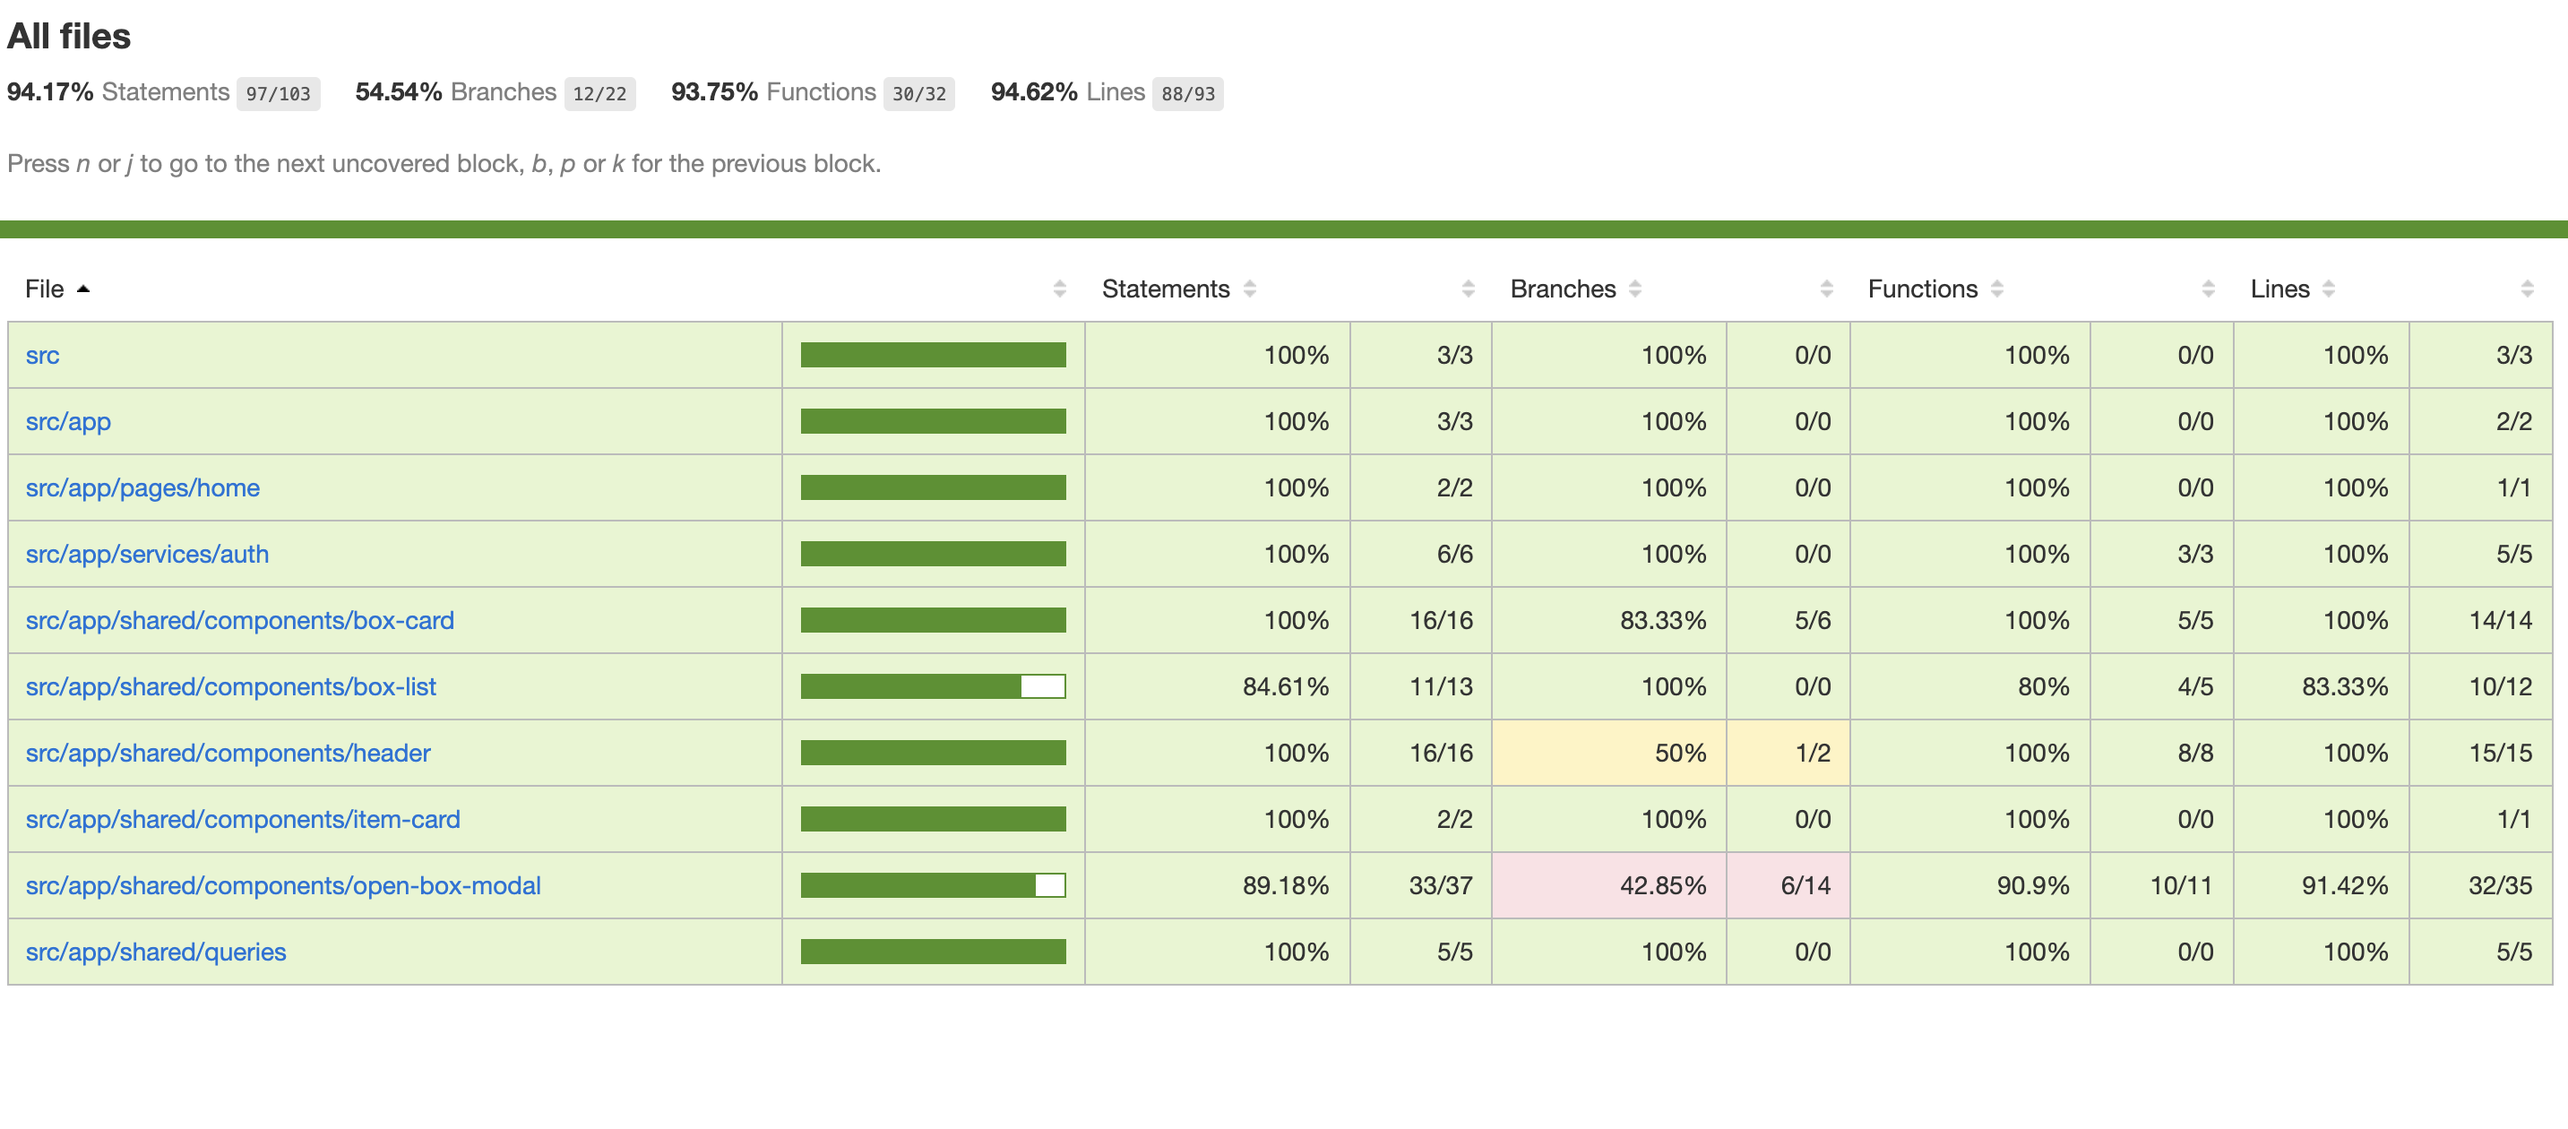
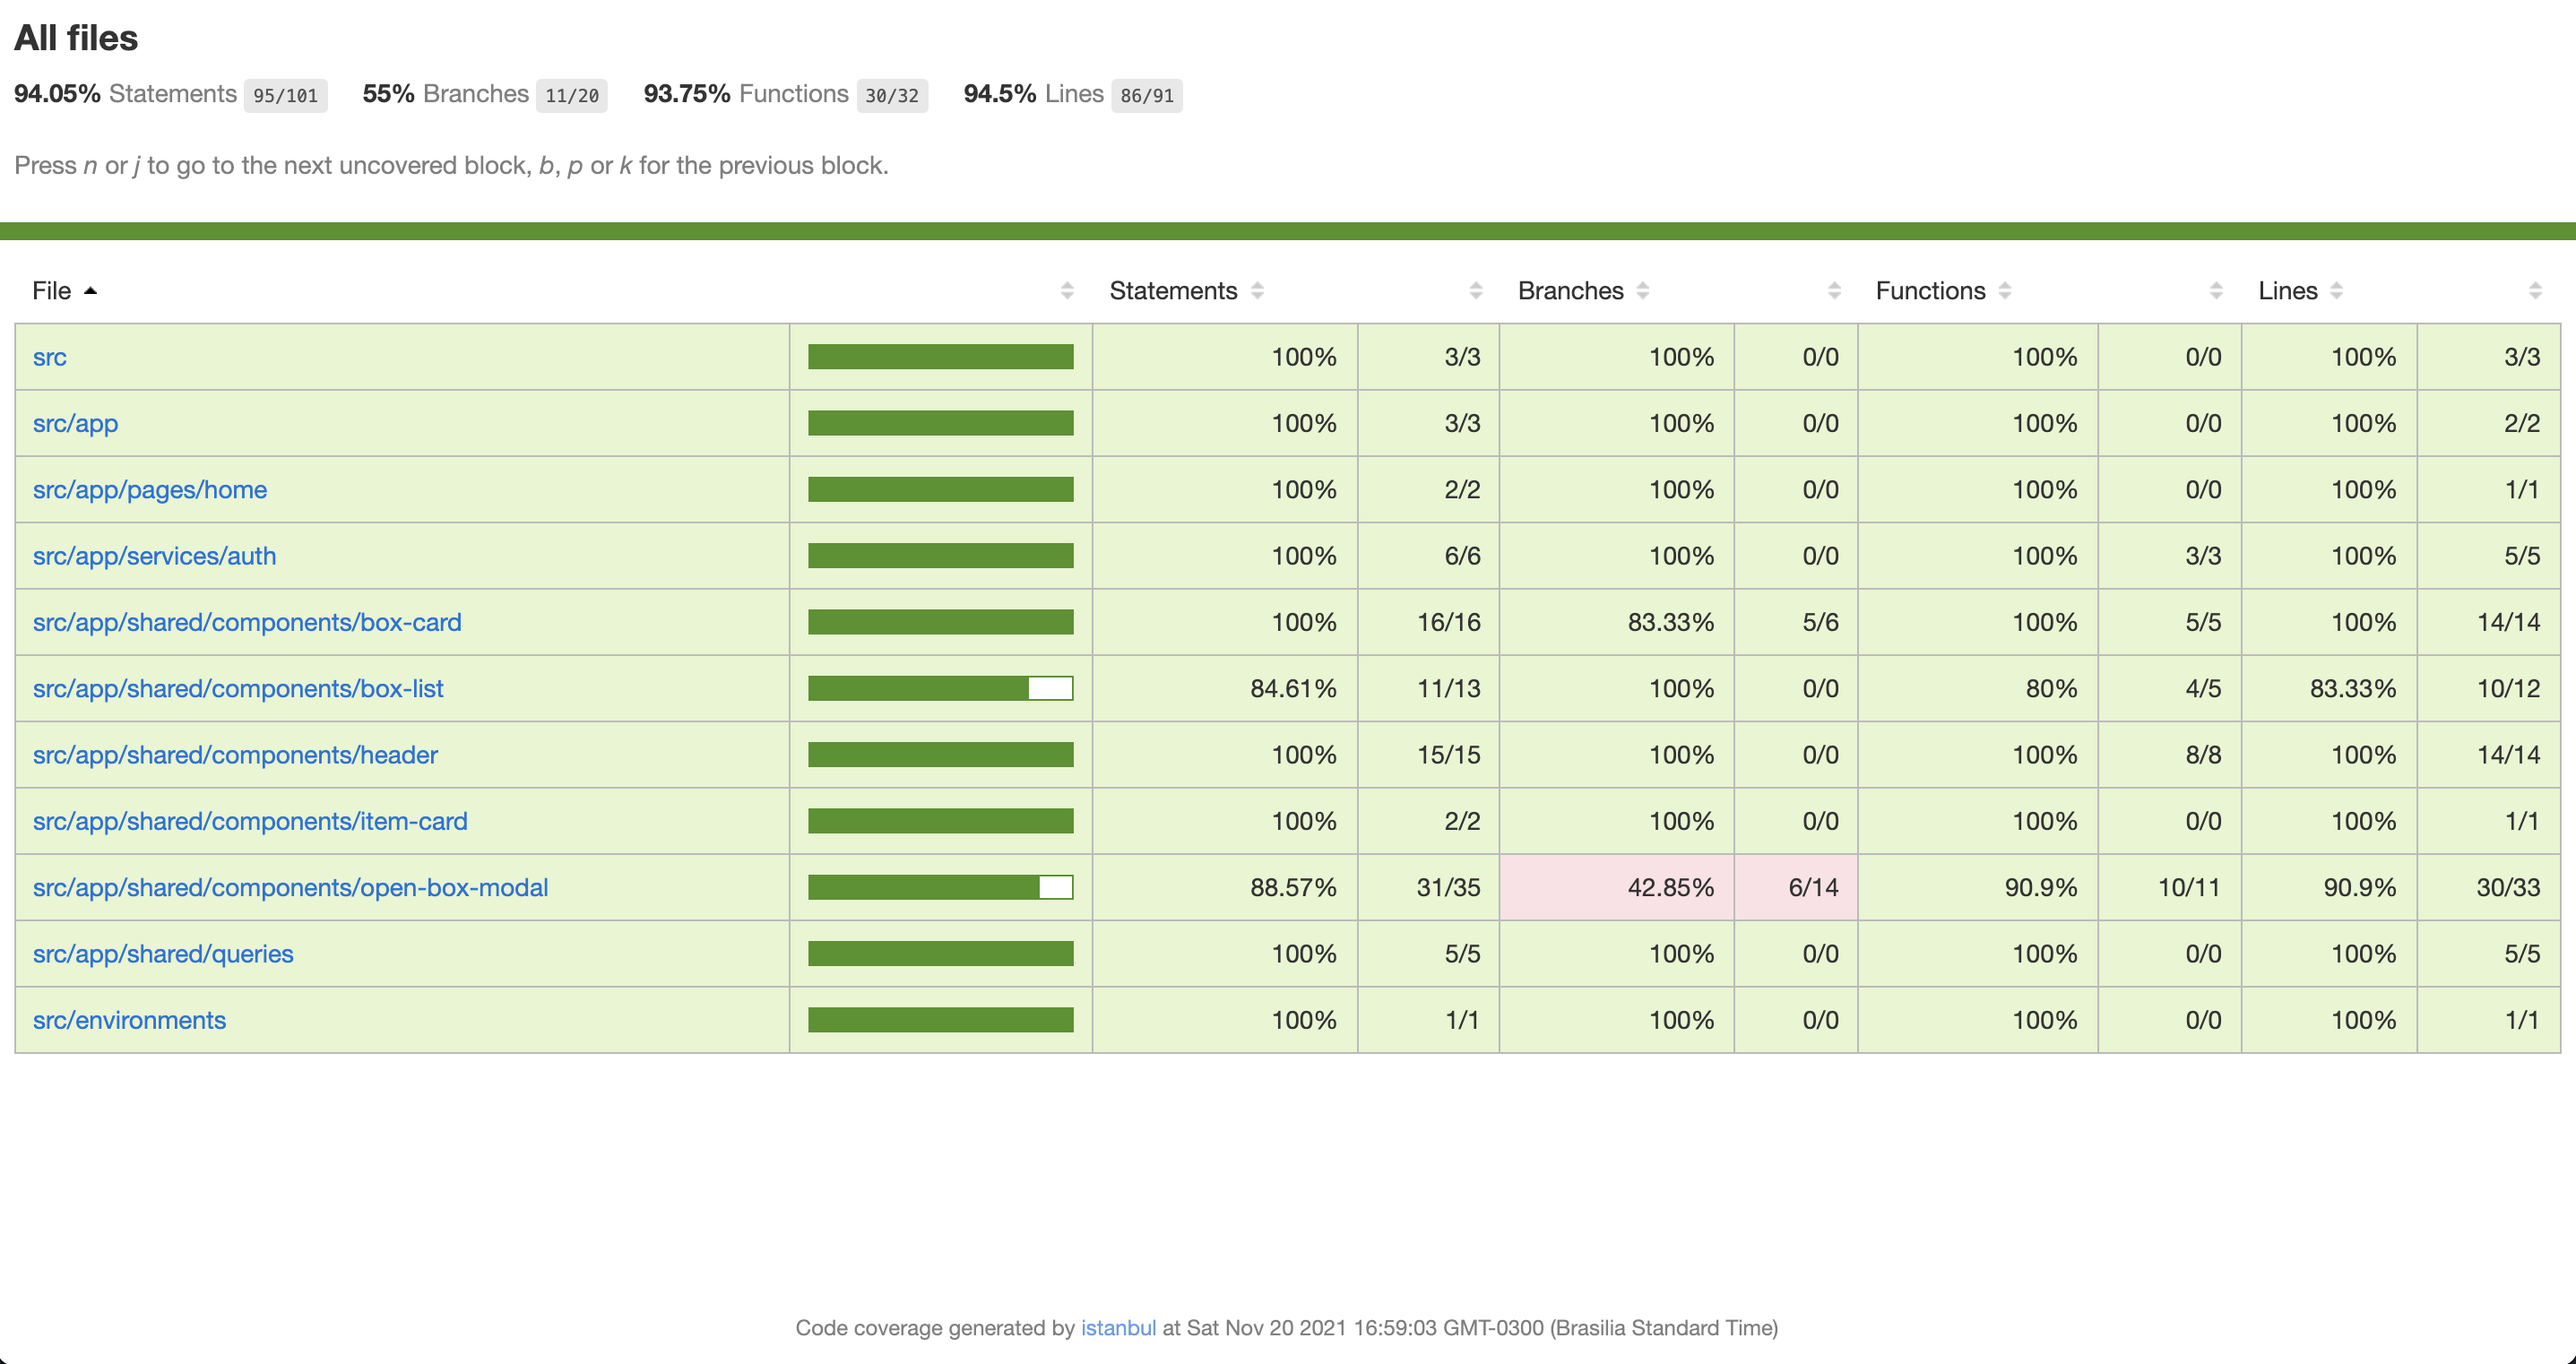
wallet fix and unit test fix

Changed region(s): [[0.0, 0.0, 1.0, 0.8976], [0.3105, 0.9595, 0.6832, 0.9905], [0.9937, 0.9905, 1.0, 1.0]]

diff --git a/src/app/shared/components/header/header.component.spec.ts b/src/app/shared/components/header/header.component.spec.ts
@@ -81,20 +81,7 @@ describe('HeaderComponent', () => {
       }
     });
 
-    const walletOp = controller.expectOne('OnUpdateWallet');
-
-    walletOp.flush({
-      data: {
-        updateWallet: {
-          wallet: {
-            id: 'mockid',
-            amount: 150,
-            name: 'mockname',
-          }
-        }
-      }
-    });
-
+    controller.verify();
   });
 
   it('should redirectToLogin', () => {
@@ -120,20 +107,6 @@ describe('HeaderComponent', () => {
       }
     });
 
-    const walletOp = controller.expectOne('OnUpdateWallet');
-
-    walletOp.flush({
-      data: {
-        updateWallet: {
-          wallet: {
-            id: 'mockid',
-            amount: 150,
-            name: 'mockname',
-          }
-        }
-      }
-    });
-
     expect(spyOnLogin).toHaveBeenCalled();
   });
 
@@ -155,21 +128,6 @@ describe('HeaderComponent', () => {
               id: 'mockwallet'
             }
           ],
-        }
-      }
-    });
-
-
-    const walletOp = controller.expectOne('OnUpdateWallet');
-
-    walletOp.flush({
-      data: {
-        updateWallet: {
-          wallet: {
-            id: 'mockid',
-            amount: 150,
-            name: 'mockname',
-          }
         }
       }
     });

diff --git a/src/app/shared/components/header/header.component.ts b/src/app/shared/components/header/header.component.ts
@@ -24,10 +24,6 @@ export class HeaderComponent implements OnInit, OnDestroy {
 
   ngOnInit(): void {
     this.getUserInfo();
-
-    if (this.user) {
-      this.subscribeToWalletChanges();
-    }
   }
 
   ngOnDestroy(): void {
@@ -58,6 +54,9 @@ export class HeaderComponent implements OnInit, OnDestroy {
       .getCurrentUserInformation()
       .pipe(takeUntil(this.destroy$))
       .pipe(first())
-      .subscribe(({ data }: any) => this.user = data.currentUser);
+      .subscribe(({ data }: any) => {
+        this.user = data.currentUser;
+        this.subscribeToWalletChanges();
+      });
   }
 }
